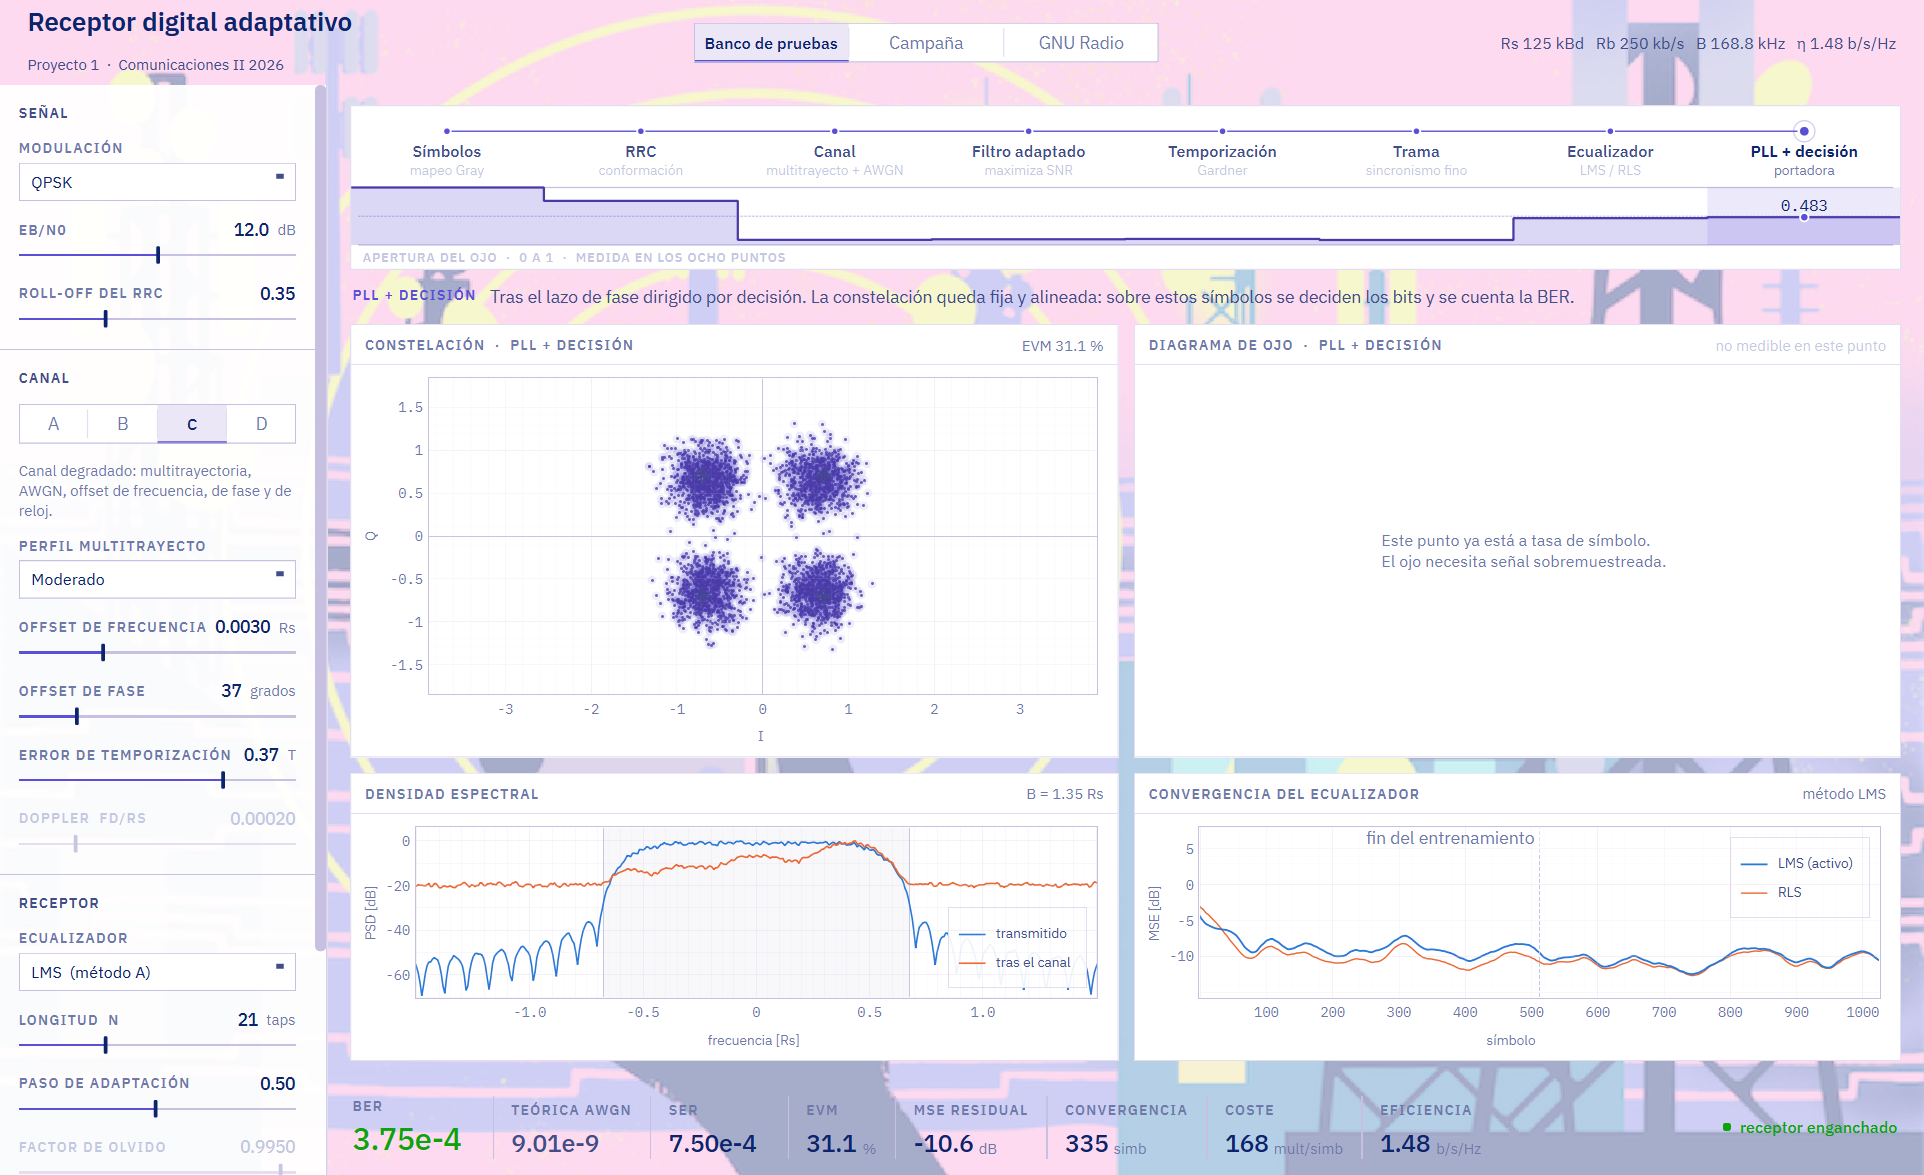
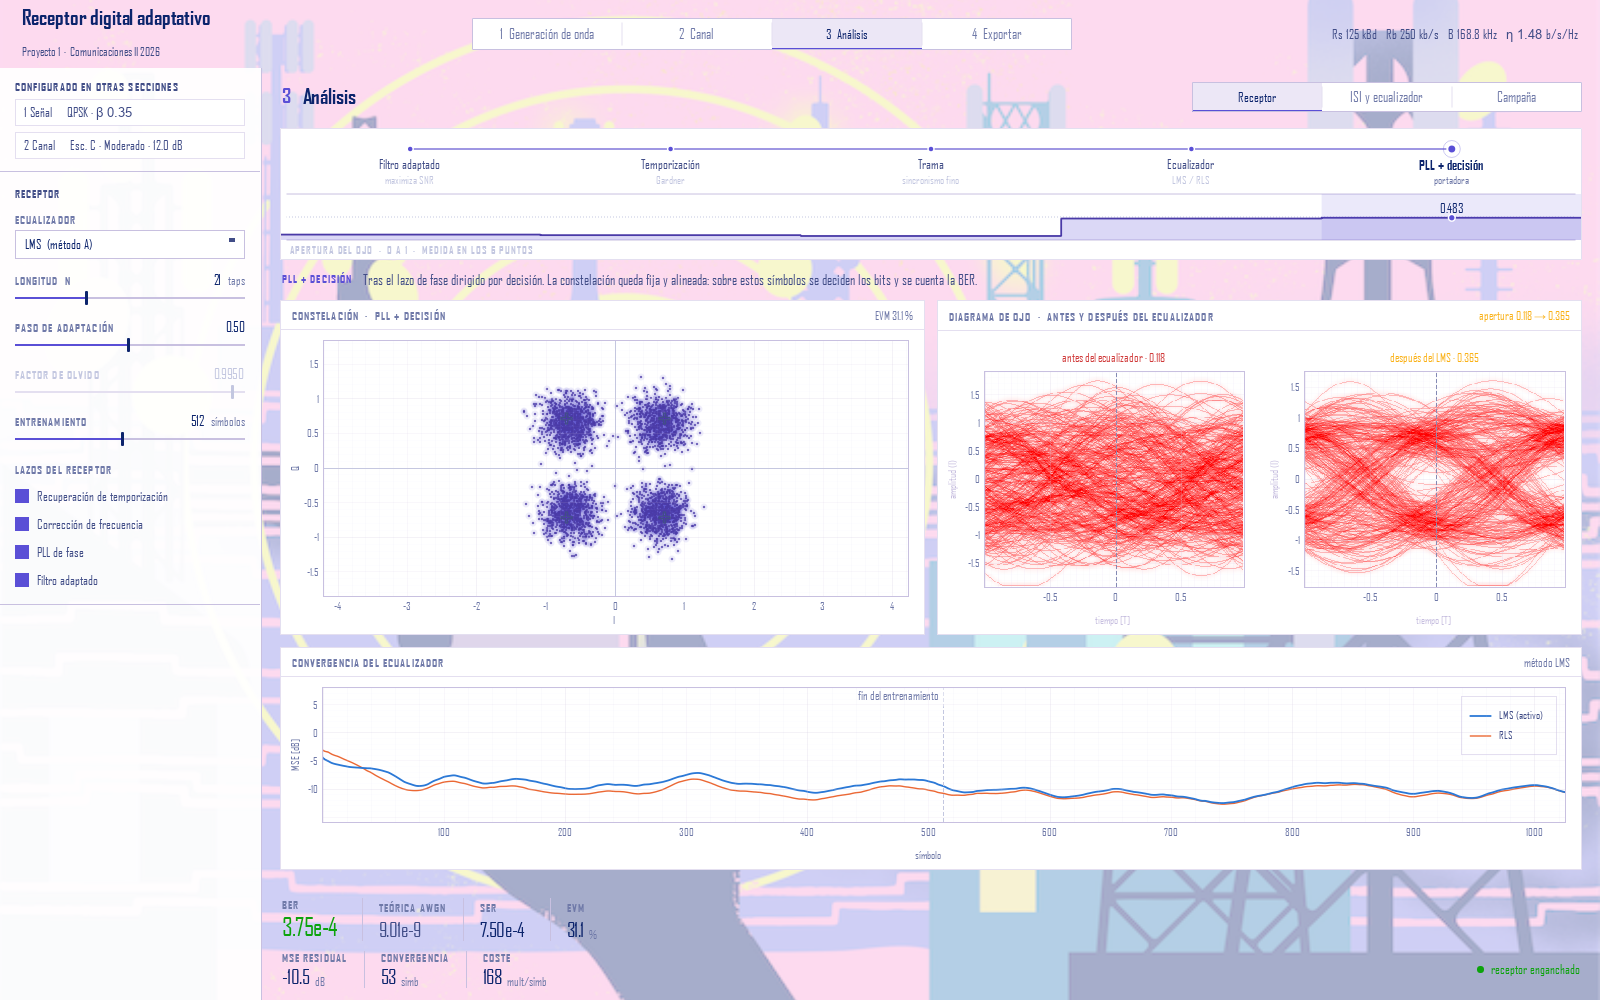
Quitar imagenes viejas y regenerar lo que quedaba antiguo
- Borradas docs/img/gnuradio.png (pestana de GNU Radio que ya no existe)
  y docs/img/campana.png (no la usaba nada).
- docs/img/banco_de_pruebas.png y tema_oscuro.png: capturas nuevas de la
  interfaz por secciones (eran del 19 de septiembre).
- exp8 con el canal h a mano y results/RESUMEN.md regenerados con el
  codigo actual (eran del 25 y del 9 de septiembre).

diff --git a/results/RESUMEN.md b/results/RESUMEN.md
@@ -18,7 +18,7 @@ Configuracion base: `fs=1.000 MHz | sps=8 | Rs=125.0 kBd | mod=QPSK (k=2) | Rb=2
 | flat | 0.000 | 0.764 | 14.3 | < 1e-6 |
 | mild | 0.264 | 0.672 | 20.1 | < 1e-6 |
 | moderate | 0.622 | 0.115 | 63.6 | 6.11e-02 |
-| severe | 1.145 | 0.083 | 502.4 | 4.64e-01 |
+| severe | 1.145 | 0.083 | 100.0 | 4.64e-01 |
 
 
 ## Experimento 3 — comparacion de ecualizadores
@@ -26,29 +26,29 @@ Configuracion base: `fs=1.000 MHz | sps=8 | Rs=125.0 kBd | mod=QPSK (k=2) | Rb=2
 | Metodo | BER | MSE residual [dB] | Convergencia a -9 dB [simb] | Mult. reales/simbolo | Orden |
 |---|---|---|---|---|---|
 | Sin ecualizar | 6.11e-02 | -3.90 | -1 | 0 | - |
-| LMS (metodo A) | 2.50e-05 | -12.18 | 78 | 168 | O(N) |
-| RLS (metodo B) | < 1e-6 | -11.51 | 60 | 7392 | O(N^2) |
+| LMS (metodo A) | 2.50e-05 | -12.15 | 78 | 168 | O(N) |
+| RLS (metodo B) | < 1e-6 | -11.48 | 60 | 7392 | O(N^2) |
 | Zero-Forcing (canal conocido) | 2.50e-05 | -12.28 | 4 | 84 | O(N) |
 | MMSE (canal conocido) | < 1e-6 | -12.34 | 5 | 84 | O(N) |
-| CMA (ciego) | 7.50e-05 | -10.26 | 1310 | 172 | O(N) |
+| CMA (ciego) | 9.72e-03 | -7.92 | 13448 | 172 | O(N) |
 
 
 ## Experimento 3 — sensibilidad a mu y lambda
 
 | Metodo | Parametro | Valor | BER | MSE residual [dB] | Convergencia a -6 dB |
 |---|---|---|---|---|---|
-| lms | mu | 0.02 | 2.15e-03 | -5.69 | 135 |
+| lms | mu | 0.02 | 2.15e-03 | -5.72 | 135 |
 | lms | mu | 0.05 | 3.58e-03 | -5.41 | 119 |
 | lms | mu | 0.1 | 2.00e-04 | -9.87 | 67 |
-| lms | mu | 0.2 | 7.50e-05 | -11.64 | 61 |
-| lms | mu | 0.5 | 2.50e-05 | -12.18 | 34 |
-| lms | mu | 1.0 | 1.00e-04 | -11.90 | 57 |
-| rls | lambda | 0.95 | 4.50e-04 | -10.51 | 41 |
-| rls | lambda | 0.98 | 7.50e-05 | -11.90 | 41 |
-| rls | lambda | 0.99 | 5.00e-05 | -12.30 | 41 |
-| rls | lambda | 0.995 | 2.50e-05 | -12.46 | 41 |
-| rls | lambda | 0.999 | < 1e-6 | -11.51 | 41 |
-| rls | lambda | 1.0 | < 1e-6 | -6.00 | 41 |
+| lms | mu | 0.2 | 7.50e-05 | -11.62 | 61 |
+| lms | mu | 0.5 | 2.50e-05 | -12.15 | 34 |
+| lms | mu | 1.0 | 1.00e-04 | -11.86 | 57 |
+| rls | lambda | 0.95 | 4.50e-04 | -10.48 | 41 |
+| rls | lambda | 0.98 | 7.50e-05 | -11.86 | 41 |
+| rls | lambda | 0.99 | 5.00e-05 | -12.26 | 41 |
+| rls | lambda | 0.995 | 2.50e-05 | -12.42 | 41 |
+| rls | lambda | 0.999 | < 1e-6 | -11.48 | 41 |
+| rls | lambda | 1.0 | < 1e-6 | -6.09 | 41 |
 
 
 ## Experimento 4.3 — rango de adquisicion de frecuencia
